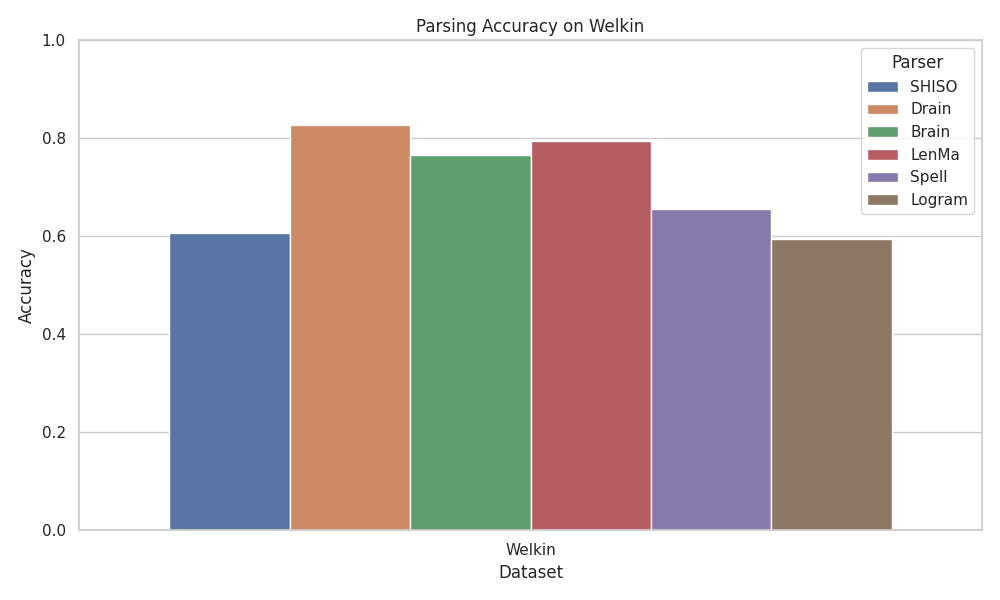
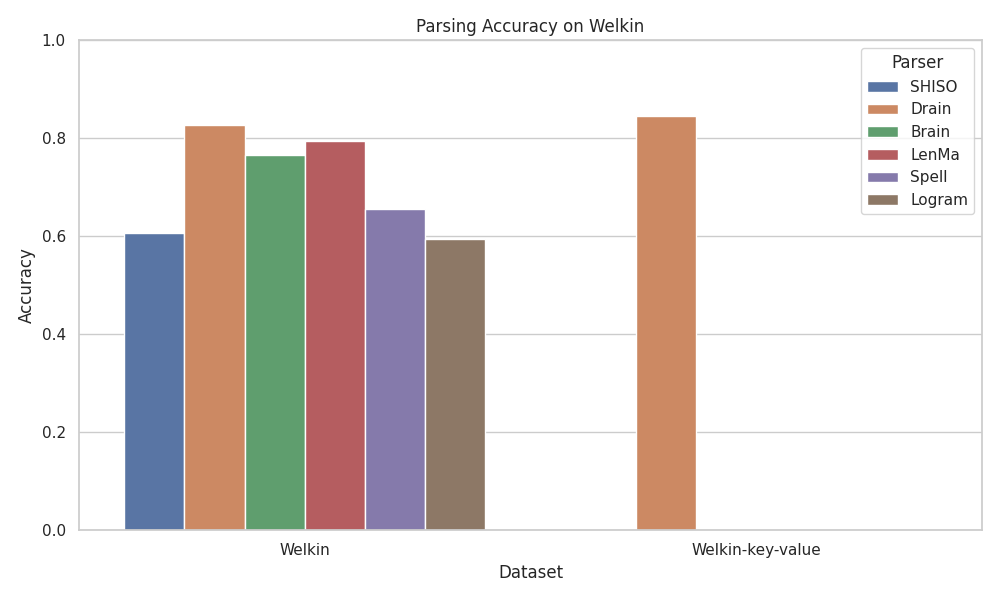
final version of postprocessing

diff --git a/postprocessing/graph.py b/postprocessing/graph.py
@@ -85,9 +85,206 @@ def graph_welkin_ranking(df_all, output_dir='../../postprocessing/plots'):
     plt.savefig(os.path.join(output_dir, 'welkin_ranking.png'))
     plt.close()
 
+def graph_drain_accuracy_delta(merged, output_dir='../../postprocessing/plots'):
+    """Separate figure: Accuracy Δ in percentage points (key-value − base) per dataset."""
+    datasets = merged['Dataset'].tolist()
+    diffs_pp = (merged['Accuracy_diff'] * 100).tolist()  # convert to percentage points
+
+    n_improved = sum(1 for d in diffs_pp if d > 0)
+    n_same     = sum(1 for d in diffs_pp if d == 0)
+    n_worse    = sum(1 for d in diffs_pp if d < 0)
+
+    colors = ['#2ca02c' if v > 0 else '#d62728' if v < 0 else '#7f7f7f' for v in diffs_pp]
+
+    fig, ax = plt.subplots(figsize=(14, 6))
+    x = range(len(datasets))
+    ax.bar(x, diffs_pp, color=colors, width=0.6, edgecolor='white', linewidth=0.5)
+    ax.axhline(0, color='black', linewidth=0.8)
+    ax.set_xticks(x)
+    ax.set_xticklabels(datasets, rotation=45, ha='right', fontsize=9)
+    ax.set_ylabel('Accuracy Δ (percentage points)', fontsize=11)
+
+    for i, v in enumerate(diffs_pp):
+        label = f'+{v:.2f}pp' if v > 0 else f'{v:.2f}pp'
+        y_pos = v + (0.08 if v >= 0 else -0.25)
+        ax.text(i, y_pos, label, ha='center', va='bottom' if v >= 0 else 'top',
+                fontsize=7, rotation=90)
+
+    avg_pp = merged["Accuracy_diff"].mean() * 100
+    summary = (f'Improved: {n_improved}   |   Unchanged: {n_same}   |   '
+               f'Degraded: {n_worse}')
+    ax.set_title(f'Accuracy Δ — Drain base vs key-value\n{summary}',
+                 fontsize=13, fontweight='bold')
+
+    plt.tight_layout()
+    os.makedirs(output_dir, exist_ok=True)
+    plt.savefig(os.path.join(output_dir, 'drain_accuracy_delta.png'), dpi=150, bbox_inches='tight')
+    plt.close()
+    print(f"  Saved drain_accuracy_delta.png")
 
 
+def graph_drain_f1_delta(merged, output_dir='../../postprocessing/plots'):
+    """Separate figure: F1 Δ in percentage points (key-value − base) per dataset."""
+    datasets = merged['Dataset'].tolist()
+    diffs_pp = (merged['F1_diff'] * 100).tolist()  # convert to percentage points
 
+    n_improved = sum(1 for d in diffs_pp if d > 0)
+    n_same     = sum(1 for d in diffs_pp if d == 0)
+    n_worse    = sum(1 for d in diffs_pp if d < 0)
+
+    colors = ['#2ca02c' if v > 0 else '#d62728' if v < 0 else '#7f7f7f' for v in diffs_pp]
+
+    fig, ax = plt.subplots(figsize=(14, 6))
+    x = range(len(datasets))
+    ax.bar(x, diffs_pp, color=colors, width=0.6, edgecolor='white', linewidth=0.5)
+    ax.axhline(0, color='black', linewidth=0.8)
+    ax.set_xticks(x)
+    ax.set_xticklabels(datasets, rotation=45, ha='right', fontsize=9)
+    ax.set_ylabel('F1 Δ (percentage points)', fontsize=11)
+
+    for i, v in enumerate(diffs_pp):
+        label = f'+{v:.2f}pp' if v > 0 else f'{v:.2f}pp'
+        y_pos = v + (0.08 if v >= 0 else -0.25)
+        ax.text(i, y_pos, label, ha='center', va='bottom' if v >= 0 else 'top',
+                fontsize=7, rotation=90)
+
+    avg_pp = merged["F1_diff"].mean() * 100
+    summary = (f'Improved: {n_improved}   |   Unchanged: {n_same}   |   '
+               f'Degraded: {n_worse}')
+    ax.set_title(f'F1-measure Δ — Drain base vs key-value\n{summary}',
+                 fontsize=13, fontweight='bold')
+
+    plt.tight_layout()
+    os.makedirs(output_dir, exist_ok=True)
+    plt.savefig(os.path.join(output_dir, 'drain_f1_delta.png'), dpi=150, bbox_inches='tight')
+    plt.close()
+    print(f"  Saved drain_f1_delta.png")
+
+
+def graph_drain_kv_pct(merged, output_dir='../../postprocessing/plots'):
+    """
+    Horizontal bar chart showing the percentage of lines that contain
+    key=value pairs per dataset. This shows which datasets actually have
+    the potential to benefit from custom klog parsing.
+    """
+    merged_sorted = merged.sort_values('KV_pct_base', ascending=True).reset_index(drop=True)
+
+    datasets = merged_sorted['Dataset'].tolist()
+    kv_pcts  = merged_sorted['KV_pct_base'].tolist()
+
+    fig, ax = plt.subplots(figsize=(10, 9))
+    colors = plt.cm.YlOrRd([p / 100 for p in kv_pcts])
+    bars = ax.barh(datasets, kv_pcts, color=colors, edgecolor='white', linewidth=0.5)
+
+    # Annotate percentage on each bar
+    for bar, pct in zip(bars, kv_pcts):
+        ax.text(bar.get_width() + 0.5, bar.get_y() + bar.get_height() / 2,
+                f'{pct}%', va='center', fontsize=9)
+
+    ax.set_xlabel('Lines with key=value pairs (%)', fontsize=11)
+    ax.set_title('Which datasets have key=value content?',
+                 fontsize=13, fontweight='bold')
+    ax.set_xlim(0, 105)
+
+    plt.tight_layout()
+    os.makedirs(output_dir, exist_ok=True)
+    plt.savefig(os.path.join(output_dir, 'drain_kv_pct.png'), dpi=150, bbox_inches='tight')
+    plt.close()
+    print(f"  Saved drain_kv_pct.png")
+
+    # Console summary
+    print(f"\n  Datasets with KV content (KV_pct > 0):")
+    for d, p in zip(datasets, kv_pcts):
+        if p > 0:
+            print(f"    {d:20s}  {p}%")
+    print(f"  Datasets with no KV content: {sum(1 for p in kv_pcts if p == 0)}")
+
+
+def graph_drain_kv_vs_improvement(merged, output_dir='../../postprocessing/plots'):
+    """
+    Scatter plot: KV% on x-axis vs Accuracy Δ (percentage points) on y-axis.
+    Each point is a dataset, annotated with its name.
+    Dashed vertical line separates datasets with zero KV lines (left) from those with KV content (right).
+    """
+    fig, ax = plt.subplots(figsize=(10, 7))
+
+    x = merged['KV_pct_base'].values
+    y = merged['Accuracy_diff'].values
+    y_pp = y * 100  # convert to percentage points
+    labels = merged['Dataset'].tolist()
+
+    # Color: improved (green) vs unchanged (gray)
+    colors = ['#2ca02c' if d > 0 else '#7f7f7f' for d in y]
+    sizes  = [120 if d > 0 else 80 for d in y]
+
+    ax.scatter(x, y_pp, c=colors, s=sizes, edgecolors='black', linewidth=0.5, zorder=5)
+
+    # Annotate each point
+    for xi, yi_pp, label in zip(x, y_pp, labels):
+        offset_y = 0.05 if yi_pp >= 0 else -0.05
+        va = 'bottom' if yi_pp >= 0 else 'top'
+        ax.annotate(label, (xi, yi_pp), textcoords='offset points',
+                    xytext=(4, offset_y if yi_pp >= 0 else -offset_y),
+                    fontsize=8, ha='left', va=va)
+
+    ax.axhline(0, color='black', linewidth=0.6, linestyle='--', alpha=0.5)
+    ax.axvline(0.5, color='gray', linewidth=0.6, linestyle=':', alpha=0.5)
+
+    ax.set_xlabel('Lines with key=value pairs (%)', fontsize=12)
+    ax.set_ylabel('Accuracy Δ (percentage points)', fontsize=12)
+    ax.set_title('Does key-value content enable accuracy improvements?',
+                 fontsize=14, fontweight='bold')
+    ax.legend(fontsize=10)
+
+    # Summary annotation
+    improved = sum(1 for d in y if d > 0)
+    with_kv = sum(1 for xv in x if xv > 0)
+    text = (f'Datasets with KV content: {with_kv}/{len(merged)}\n'
+            f'Improved: {improved}/{with_kv}  (of those with KV content)')
+    ax.text(0.05, 0.95, text, transform=ax.transAxes, fontsize=10, va='top',
+            bbox=dict(boxstyle='round,pad=0.4', facecolor='lightyellow', alpha=0.8))
+
+    plt.tight_layout()
+    os.makedirs(output_dir, exist_ok=True)
+    plt.savefig(os.path.join(output_dir, 'drain_kv_vs_improvement.png'), dpi=150, bbox_inches='tight')
+    plt.close()
+    print(f"  Saved drain_kv_vs_improvement.png")
+
+
+def graph_drain_keyvalue_comparison(df_all, output_dir='../../postprocessing/plots'):
+    """Generate all plots for Drain key-value comparison."""
+    drain_data = df_all[df_all['Parser'] == 'Drain'].copy()
+
+    base_data = drain_data[~drain_data['Dataset'].str.endswith('-key-value')].copy()
+    kv_data   = drain_data[drain_data['Dataset'].str.endswith('-key-value')].copy()
+    kv_data['BaseDataset'] = kv_data['Dataset'].str.replace('-key-value', '', regex=False)
+
+    merged = base_data[['Dataset', 'Accuracy', 'F1_measure', 'KV_pct']].rename(
+        columns={'Accuracy': 'Accuracy_base', 'F1_measure': 'F1_base', 'KV_pct': 'KV_pct_base'}
+    ).merge(
+        kv_data[['BaseDataset', 'Accuracy', 'F1_measure']].rename(
+            columns={'Accuracy': 'Accuracy_kv', 'F1_measure': 'F1_kv'}
+        ),
+        left_on='Dataset',
+        right_on='BaseDataset',
+        how='inner'
+    )
+
+    merged['Accuracy_diff'] = merged['Accuracy_kv'] - merged['Accuracy_base']
+    merged['F1_diff']       = merged['F1_kv']       - merged['F1_base']
+    merged = merged.sort_values('Accuracy_diff', ascending=False).reset_index(drop=True)
+
+    graph_drain_accuracy_delta(merged, output_dir)
+    graph_drain_f1_delta(merged, output_dir)
+    graph_drain_kv_pct(merged, output_dir)
+    graph_drain_kv_vs_improvement(merged, output_dir)
+
+    # Console summary
+    print(f"\n  Average accuracy Δ: {merged['Accuracy_diff'].mean():+.6f}")
+    print(f"  Average F1      Δ: {merged['F1_diff'].mean():+.6f}")
+    n_imp = sum(1 for d in merged['Accuracy_diff'] if d > 0)
+    n_same = sum(1 for d in merged['Accuracy_diff'] if d == 0)
+    print(f"  Improved: {n_imp}/{len(merged)},  Unchanged: {n_same}/{len(merged)}")
 
 
 if __name__ == "__main__":
@@ -105,8 +302,9 @@ if __name__ == "__main__":
     graph_overall_ranking(df_all, output_directory)
 
     graph_welkin_ranking(df_all, output_directory)
-    print("="*50)
-    print("== All Grapsh created ==")
-    print("="*50)
 
-    
+    graph_drain_keyvalue_comparison(df_all, output_directory)
+
+    print("="*50)
+    print("== All Graphs created ==")
+    print("="*50)
